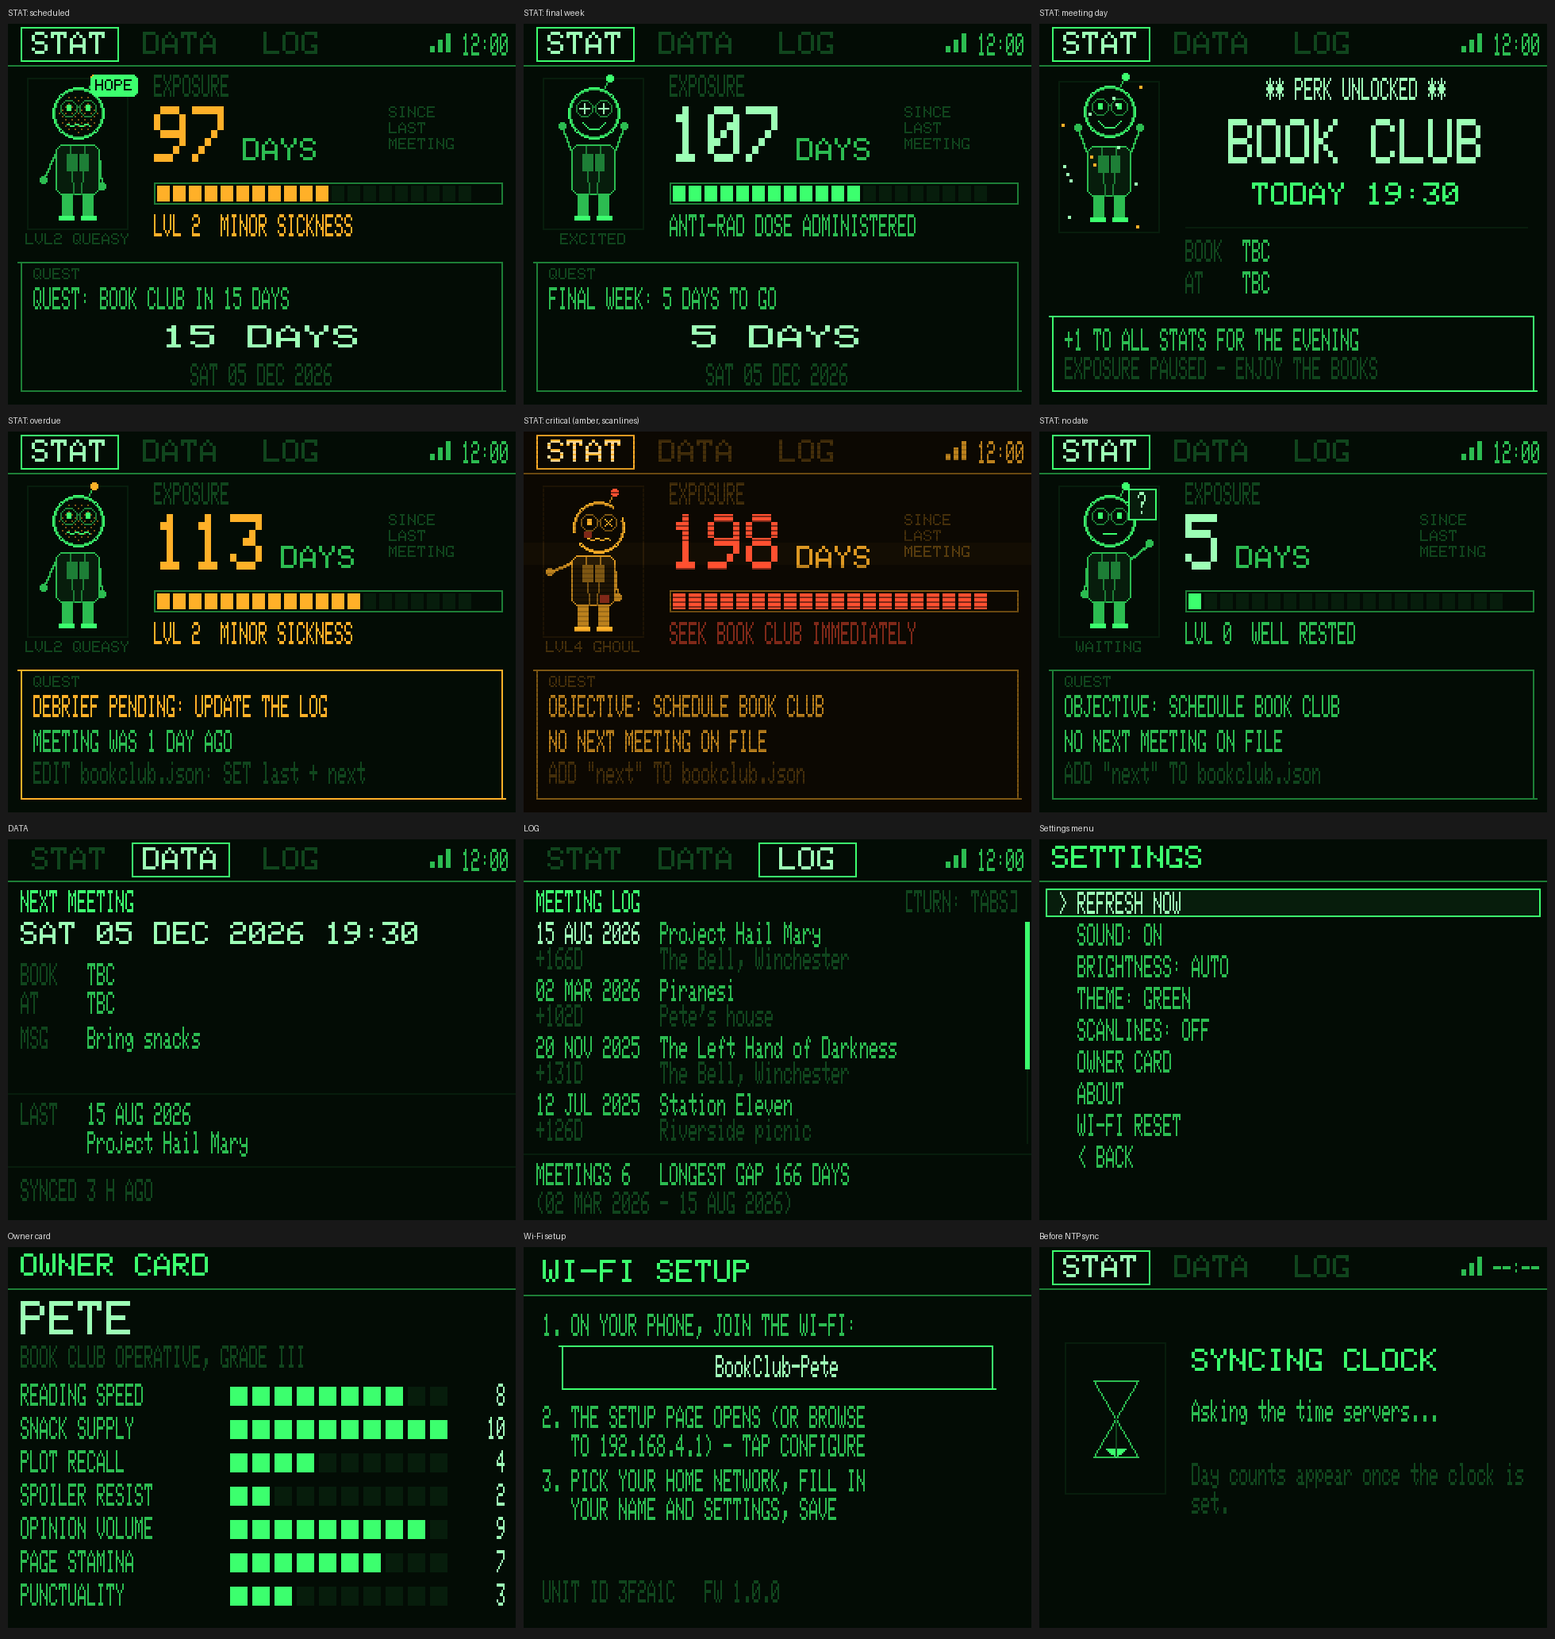
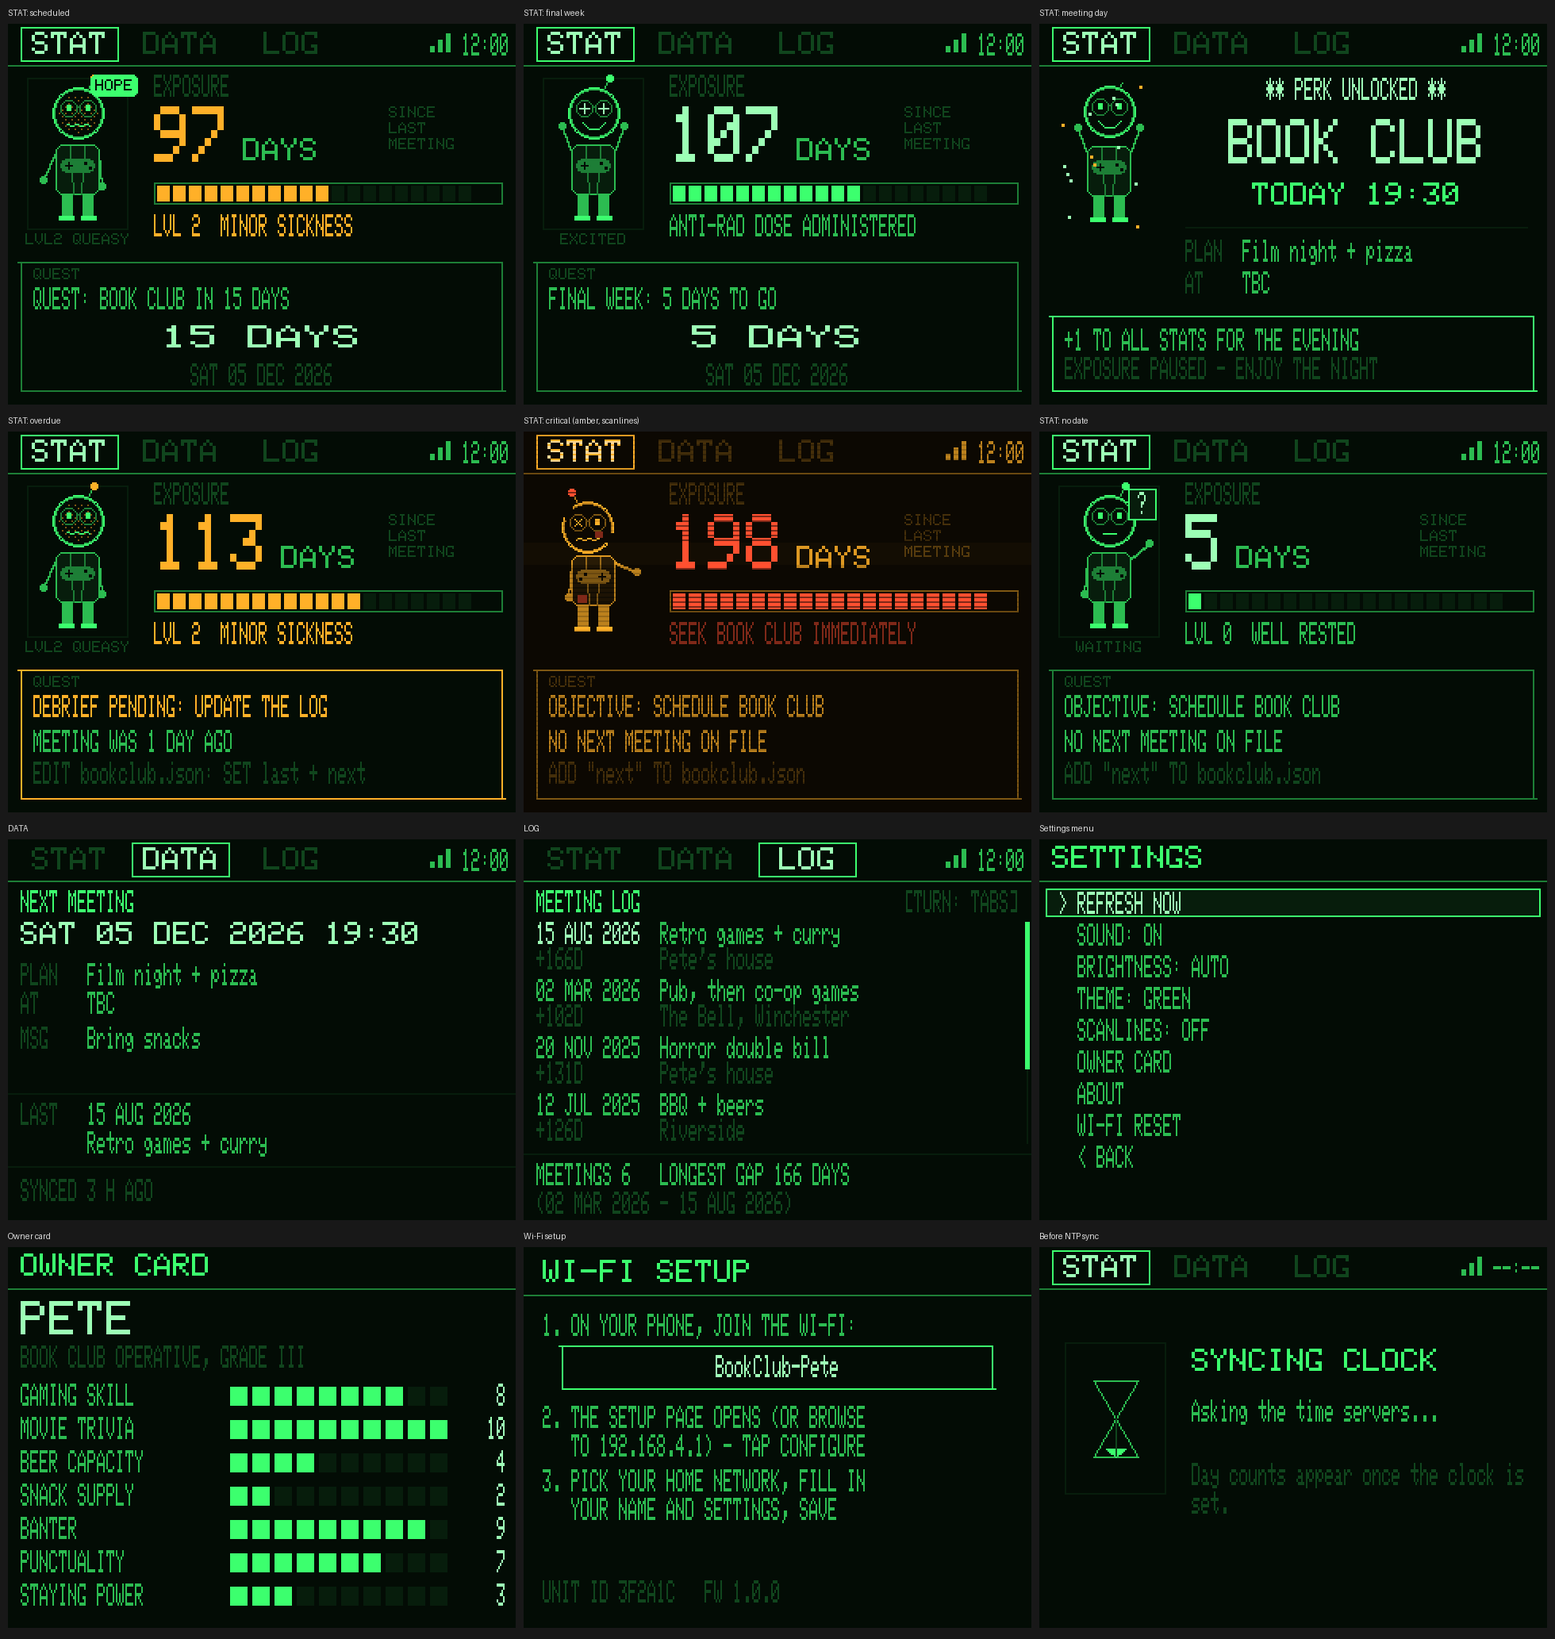
Drop the reading theme: meetings have a plan, not a book
The club plays games, watches films, eats and drinks rather than reading.
Meetings now carry a 'plan' field (what's on that night) shown on the DATA
and LOG tabs; files that still say 'book' keep working. Owner-card stats,
sample data and on-screen wording are re-themed, and the placeholder
mascot holds a game controller instead of a book.

Claude-Session: https://claude.ai/code/session_01Te388yYDhf15Es8J4BHFVV

diff --git a/firmware/test/test_state/test_state.cpp b/firmware/test/test_state/test_state.cpp
@@ -33,14 +33,14 @@ static BookClubData file(const char* last, const char* next, const char* time = 
   char nextPart[160];
   if (next) {
     if (time)
-      snprintf(nextPart, sizeof nextPart, "{\"date\":\"%s\",\"time\":\"%s\",\"book\":\"TBC\"}", next, time);
+      snprintf(nextPart, sizeof nextPart, "{\"date\":\"%s\",\"time\":\"%s\",\"plan\":\"TBC\"}", next, time);
     else
       snprintf(nextPart, sizeof nextPart, "{\"date\":\"%s\"}", next);
   } else {
     strcpy(nextPart, "null");
   }
   snprintf(json, sizeof json,
-           "{\"version\":1,\"last\":{\"date\":\"%s\",\"book\":\"Project Hail Mary\"},"
+           "{\"version\":1,\"last\":{\"date\":\"%s\",\"plan\":\"Retro games + curry\"},"
            "\"next\":%s}",
            last, nextPart);
   BookClubData d;
@@ -261,11 +261,11 @@ void test_labels() {
 
 static const char* kSample = R"({
   "version": 1,
-  "last": { "date": "2026-08-15", "book": "Project Hail Mary", "location": "The Bell, Winchester" },
-  "next": { "date": "2026-12-05", "time": "19:30", "book": "TBC", "location": "TBC" },
+  "last": { "date": "2026-08-15", "plan": "Retro games + curry", "location": "The Bell, Winchester" },
+  "next": { "date": "2026-12-05", "time": "19:30", "plan": "TBC", "location": "TBC" },
   "history": [
-    { "date": "2026-08-15", "book": "Project Hail Mary", "location": "The Bell, Winchester" },
-    { "date": "2026-03-02", "book": "Piranesi", "location": "Pete's house" }
+    { "date": "2026-08-15", "plan": "Retro games + curry", "location": "The Bell, Winchester" },
+    { "date": "2026-03-02", "plan": "Pub, then co-op games", "location": "Pete's house" }
   ],
   "message": "Bring snacks",
   "someFutureField": { "ignored": true }
@@ -276,13 +276,13 @@ void test_parse_sample() {
   TEST_ASSERT_EQUAL((int)ParseError::None, (int)parseBookClub(kSample, strlen(kSample), d));
   TEST_ASSERT_EQUAL(1, d.version);
   TEST_ASSERT_TRUE(d.last.date == D("2026-08-15"));
-  TEST_ASSERT_EQUAL_STRING("Project Hail Mary", d.last.book);
+  TEST_ASSERT_EQUAL_STRING("Retro games + curry", d.last.plan);
   TEST_ASSERT_TRUE(d.hasNext);
   TEST_ASSERT_TRUE(d.next.hasTime);
   TEST_ASSERT_EQUAL_INT16(19 * 60 + 30, d.next.minute);
   TEST_ASSERT_EQUAL_STRING("Bring snacks", d.message);
   TEST_ASSERT_EQUAL(2, d.historyCount);
-  TEST_ASSERT_EQUAL_STRING("Piranesi", d.history[1].book);
+  TEST_ASSERT_EQUAL_STRING("Pub, then co-op games", d.history[1].plan);
   TEST_ASSERT_FALSE(d.firmware.present);
 }
 
@@ -301,7 +301,7 @@ void test_parse_rejects_bad_files_and_keeps_old() {
   for (const char* b : bad) {
     TEST_ASSERT_NOT_EQUAL_MESSAGE((int)ParseError::None, (int)parseBookClub(b, strlen(b), d), b);
   }
-  TEST_ASSERT_EQUAL_STRING("Project Hail Mary", d.last.book);  // untouched
+  TEST_ASSERT_EQUAL_STRING("Retro games + curry", d.last.plan);  // untouched
   TEST_ASSERT_TRUE(d.hasNext);
 }
 
@@ -311,7 +311,7 @@ void test_parse_next_variants() {
   TEST_ASSERT_EQUAL((int)ParseError::None, (int)parseBookClub(omitted, strlen(omitted), d));
   TEST_ASSERT_FALSE(d.hasNext);
   TEST_ASSERT_EQUAL(1, d.historyCount);  // `last` is always in the log
-  const char* badNext = "{\"last\":{\"date\":\"2026-08-15\"},\"next\":{\"date\":\"soon\",\"book\":\"X\"}}";
+  const char* badNext = "{\"last\":{\"date\":\"2026-08-15\"},\"next\":{\"date\":\"soon\",\"plan\":\"X\"}}";
   TEST_ASSERT_EQUAL((int)ParseError::None, (int)parseBookClub(badNext, strlen(badNext), d));
   TEST_ASSERT_FALSE(d.hasNext);
   const char* badTime = "{\"last\":{\"date\":\"2026-08-15\"},\"next\":{\"date\":\"2026-12-05\",\"time\":\"7pm\"}}";
@@ -322,40 +322,49 @@ void test_parse_next_variants() {
 
 void test_parse_last_wins_over_history() {
   // History is out of order and its first entry disagrees with `last`.
-  const char* j = R"({"last":{"date":"2026-08-15","book":"Right"},
-    "history":[{"date":"2026-03-02","book":"B"},{"date":"2026-08-15","book":"Wrong"},
-               {"date":"2025-11-20","book":"A"},{"date":"2026-09-01","book":"Future"}]})";
+  const char* j = R"({"last":{"date":"2026-08-15","plan":"Right"},
+    "history":[{"date":"2026-03-02","plan":"B"},{"date":"2026-08-15","plan":"Wrong"},
+               {"date":"2025-11-20","plan":"A"},{"date":"2026-09-01","plan":"Future"}]})";
   BookClubData d;
   TEST_ASSERT_EQUAL((int)ParseError::None, (int)parseBookClub(j, strlen(j), d));
   TEST_ASSERT_EQUAL(3, d.historyCount);
-  TEST_ASSERT_EQUAL_STRING("Right", d.history[0].book);
-  TEST_ASSERT_EQUAL_STRING("B", d.history[1].book);
-  TEST_ASSERT_EQUAL_STRING("A", d.history[2].book);
+  TEST_ASSERT_EQUAL_STRING("Right", d.history[0].plan);
+  TEST_ASSERT_EQUAL_STRING("B", d.history[1].plan);
+  TEST_ASSERT_EQUAL_STRING("A", d.history[2].plan);
   LogStats st = computeLogStats(d);
   TEST_ASSERT_EQUAL(3, st.totalMeetings);
   TEST_ASSERT_EQUAL_INT32(166, st.longestGapDays);  // 2026-03-02 -> 2026-08-15
   TEST_ASSERT_TRUE(st.gapFrom == D("2026-03-02"));
 }
 
-void test_parse_truncates_long_text() {
-  char j[600];
-  char longBook[300];
-  memset(longBook, 'x', sizeof longBook - 1);
-  longBook[sizeof longBook - 1] = 0;
-  snprintf(j, sizeof j, "{\"last\":{\"date\":\"2026-08-15\",\"book\":\"%s\"}}", longBook);
+void test_parse_accepts_legacy_book_field() {
+  const char* j = R"({"last":{"date":"2026-08-15","book":"Old style"},
+    "next":{"date":"2026-12-05","plan":"New style","book":"ignored"}})";
   BookClubData d;
   TEST_ASSERT_EQUAL((int)ParseError::None, (int)parseBookClub(j, strlen(j), d));
-  TEST_ASSERT_EQUAL(kTextLen - 1, (int)strlen(d.last.book));
+  TEST_ASSERT_EQUAL_STRING("Old style", d.last.plan);
+  TEST_ASSERT_EQUAL_STRING("New style", d.next.plan);
+}
+
+void test_parse_truncates_long_text() {
+  char j[600];
+  char longPlan[300];
+  memset(longPlan, 'x', sizeof longPlan - 1);
+  longPlan[sizeof longPlan - 1] = 0;
+  snprintf(j, sizeof j, "{\"last\":{\"date\":\"2026-08-15\",\"plan\":\"%s\"}}", longPlan);
+  BookClubData d;
+  TEST_ASSERT_EQUAL((int)ParseError::None, (int)parseBookClub(j, strlen(j), d));
+  TEST_ASSERT_EQUAL(kTextLen - 1, (int)strlen(d.last.plan));
 }
 
 void test_parse_utf8_truncation_on_boundary() {
   // 30 x "é" (2 bytes each) = 60 bytes; must cut to 46 bytes, not 47.
-  char j[200] = "{\"last\":{\"date\":\"2026-08-15\",\"book\":\"";
+  char j[200] = "{\"last\":{\"date\":\"2026-08-15\",\"plan\":\"";
   for (int i = 0; i < 30; ++i) strcat(j, "\xC3\xA9");
   strcat(j, "\"}}");
   BookClubData d;
   TEST_ASSERT_EQUAL((int)ParseError::None, (int)parseBookClub(j, strlen(j), d));
-  TEST_ASSERT_EQUAL(46, (int)strlen(d.last.book));
+  TEST_ASSERT_EQUAL(46, (int)strlen(d.last.plan));
 }
 
 void test_parse_firmware_block() {
@@ -454,6 +463,7 @@ int main() {
   RUN_TEST(test_parse_rejects_bad_files_and_keeps_old);
   RUN_TEST(test_parse_next_variants);
   RUN_TEST(test_parse_last_wins_over_history);
+  RUN_TEST(test_parse_accepts_legacy_book_field);
   RUN_TEST(test_parse_truncates_long_text);
   RUN_TEST(test_parse_utf8_truncation_on_boundary);
   RUN_TEST(test_parse_firmware_block);

diff --git a/firmware/src/mascot.cpp b/firmware/src/mascot.cpp
@@ -1,5 +1,6 @@
 #include "mascot.h"
 
+#include "art_data.h"
 #include "display.h"
 
 using display::canvas;
@@ -8,9 +9,9 @@ namespace mascot {
 
 using bc::Pose;
 
-// A deliberately simple, original figure: a round-headed reader with big
-// round glasses, a dosimeter antenna and a cardigan, clutching a book.
-// Placeholder only.
+// A deliberately simple, original figure: a round-headed character with big
+// round glasses, a dosimeter antenna and a cardigan, clutching a game
+// controller. Placeholder only.
 namespace {
 
 struct Look {
@@ -35,7 +36,7 @@ void arm(int sx, int sy, int dir, int pose) {
 
 }  // namespace
 
-void draw(int x, int y, Pose pose, uint32_t t, bool label) {
+void drawPlaceholder(int x, int y, Pose pose, uint32_t t, bool label) {
   auto& c = canvas();
   Look k;
   const bool blinkNow = (t % 4200) < 140;
@@ -63,14 +64,17 @@ void draw(int x, int y, Pose pose, uint32_t t, bool label) {
     c.drawFastVLine(cx, cy, 24, display::kDim);
   } else {
     const int hx = x + 32 + k.headDx, hy = y + 22 + k.headDy;
-    // Body: an open cardigan over a jumper, with a book held to the chest.
+    // Body: an open cardigan over a jumper, a game controller held in front.
     const int bx = x + 18, by = y + 42 + k.headDy / 2;
     c.fillRoundRect(bx, by, 28, 32, 5, display::kFaint);
     c.drawRoundRect(bx, by, 28, 32, 5, display::kText);
     c.drawLine(bx + 9, by + 1, bx + 11, by + 31, display::kMid);  // cardigan edges
     c.drawLine(bx + 18, by + 1, bx + 16, by + 31, display::kMid);
-    c.fillRect(bx + 7, by + 6, 14, 11, display::kMid);  // the book
-    c.drawFastVLine(bx + 14, by + 6, 11, display::kBg);
+    c.fillRoundRect(bx + 3, by + 9, 22, 9, 4, display::kMid);  // the controller
+    c.drawFastHLine(bx + 6, by + 13, 5, display::kBg);          // d-pad
+    c.drawFastVLine(bx + 8, by + 11, 5, display::kBg);
+    c.fillRect(bx + 18, by + 11, 2, 2, display::kBg);           // buttons
+    c.fillRect(bx + 21, by + 14, 2, 2, display::kBg);
     // Legs.
     c.fillRect(bx + 4, by + 32, 7, 14, display::kText);
     c.fillRect(bx + 17, by + 32, 7, 14, display::kText);
@@ -156,6 +160,34 @@ void draw(int x, int y, Pose pose, uint32_t t, bool label) {
   }
 
   if (label) display::textCentered(x + kW / 2, y + kH + 2, bc::poseName(pose), display::kDim, 1, 1);
+}
+
+bool hasArt(Pose pose) {
+  const int i = (int)pose;
+  return i >= 0 && i < (int)(sizeof art::kAnims / sizeof art::kAnims[0]) && art::kAnims[i].count > 0;
+}
+
+void draw(int x, int y, Pose pose, uint32_t t, bool label) {
+  if (!hasArt(pose)) {
+    drawPlaceholder(x, y, pose, t, label);
+    return;
+  }
+  // Pick the frame for this moment of the loop.
+  const art::Anim& a = art::kAnims[(int)pose];
+  uint32_t total = 0;
+  for (int i = 0; i < a.count; ++i) total += a.frames[i].ms ? a.frames[i].ms : 1;
+  uint32_t at = t % total;
+  int f = 0;
+  while (f < a.count - 1 && at >= a.frames[f].ms) at -= a.frames[f++].ms;
+  const uint8_t* px = a.frames[f].px;
+  auto& c = canvas();
+  for (int yy = 0; yy < art::kH; ++yy) {
+    for (int xx = 0; xx < art::kW; xx += 2) {
+      const uint8_t b = *px++;
+      if (b >> 4) c.drawPixel(x + xx, y + yy, b >> 4);
+      if (b & 15) c.drawPixel(x + xx + 1, y + yy, b & 15);
+    }
+  }
 }
 
 }  // namespace mascot

diff --git a/firmware/src/ui.cpp b/firmware/src/ui.cpp
@@ -183,14 +183,14 @@ void drawCelebration(const Model& m, uint32_t t) {
   textCentered(200, 100, buf, kBright, 2, 2);
   if (m.data) {
     canvas().drawFastHLine(92, 128, 216, kFaint);
-    text(92, 136, "BOOK", kDim);
-    folded(128, 136, m.data->next.book, kText, 30);
+    text(92, 136, "PLAN", kDim);
+    folded(128, 136, m.data->next.plan[0] ? m.data->next.plan : "TBC", kText, 30);
     text(92, 156, "AT", kDim);
     folded(128, 156, m.data->next.location, kText, 30);
   }
   frame(8, 184, 304, 48, kBright);
   text(16, 192, "+1 TO ALL STATS FOR THE EVENING", kText);
-  text(16, 210, "EXPOSURE PAUSED - ENJOY THE BOOKS", kDim);
+  text(16, 210, "EXPOSURE PAUSED - ENJOY THE NIGHT", kDim);
 }
 
 void drawStat(const Model& m, uint32_t t) {
@@ -275,8 +275,8 @@ void drawData(const Model& m) {
       bc::formatTime(d.next.minute, tm, sizeof tm);
       text(8 + textWidth(buf, 2) + 12, 52, tm, kHot, 2, 2);
     }
-    text(8, 78, "BOOK ", kDim);
-    folded(50, 78, d.next.book[0] ? d.next.book : "TBC", kText, 44);
+    text(8, 78, "PLAN ", kDim);
+    folded(50, 78, d.next.plan[0] ? d.next.plan : "TBC", kText, 44);
     text(8, 96, "AT   ", kDim);
     folded(50, 96, d.next.location[0] ? d.next.location : "TBC", kText, 44);
   } else {
@@ -292,7 +292,7 @@ void drawData(const Model& m) {
   text(8, 166, "LAST ", kDim);
   bc::formatDateShort(d.last.date, date, sizeof date);
   text(50, 166, date, kText);
-  folded(50, 184, d.last.book[0] ? d.last.book : "-", kText, 44);
+  folded(50, 184, d.last.plan[0] ? d.last.plan : "-", kText, 44);
 
   c.drawFastHLine(0, 206, cfg::kScreenW, kFaint);
   char age[20];
@@ -325,7 +325,7 @@ void drawLog(const Model& m) {
     char date[16];
     bc::formatDateShort(e.date, date, sizeof date);
     text(8, y, date, i == 0 ? kHot : kText);
-    folded(86, y, e.book[0] ? e.book : "-", kText, 36);
+    folded(86, y, e.plan[0] ? e.plan : "-", kText, 36);
     folded(86, y + 16, e.location, kDim, 36);
     if (i + 1 < d.historyCount) {
       char gap[24];

diff --git a/firmware/src/scenarios.cpp b/firmware/src/scenarios.cpp
@@ -7,15 +7,15 @@ namespace scenarios {
 
 const char* const kSampleJson = R"JSON({
   "version": 1,
-  "last": { "date": "2026-08-15", "book": "Project Hail Mary", "location": "The Bell, Winchester" },
-  "next": { "date": "2026-12-05", "time": "19:30", "book": "TBC", "location": "TBC" },
+  "last": { "date": "2026-08-15", "plan": "Retro games + curry", "location": "Pete's house" },
+  "next": { "date": "2026-12-05", "time": "19:30", "plan": "Film night + pizza", "location": "TBC" },
   "history": [
-    { "date": "2026-08-15", "book": "Project Hail Mary", "location": "The Bell, Winchester" },
-    { "date": "2026-03-02", "book": "Piranesi", "location": "Pete's house" },
-    { "date": "2025-11-20", "book": "The Left Hand of Darkness", "location": "The Bell, Winchester" },
-    { "date": "2025-07-12", "book": "Station Eleven", "location": "Riverside picnic" },
-    { "date": "2025-03-08", "book": "Klara and the Sun", "location": "Pete's house" },
-    { "date": "2024-10-19", "book": "The Martian", "location": "The Bell, Winchester" }
+    { "date": "2026-08-15", "plan": "Retro games + curry", "location": "Pete's house" },
+    { "date": "2026-03-02", "plan": "Pub, then co-op games", "location": "The Bell, Winchester" },
+    { "date": "2025-11-20", "plan": "Horror double bill", "location": "Pete's house" },
+    { "date": "2025-07-12", "plan": "BBQ + beers", "location": "Riverside" },
+    { "date": "2025-03-08", "plan": "Racing game tournament", "location": "Pete's house" },
+    { "date": "2024-10-19", "plan": "Pub quiz", "location": "The Bell, Winchester" }
   ],
   "message": "Bring snacks"
 })JSON";

diff --git a/firmware/sim/stubs.cpp b/firmware/sim/stubs.cpp
@@ -13,8 +13,8 @@ namespace settings {
 const char* chipId() { return "3F2A1C"; }
 const char* statName(int i) {
   static const char* const kNames[kStatCount] = {
-      "READING SPEED", "SNACK SUPPLY",   "PLOT RECALL", "SPOILER RESIST",
-      "OPINION VOLUME", "PAGE STAMINA", "PUNCTUALITY",
+      "GAMING SKILL",  "MOVIE TRIVIA", "BEER CAPACITY", "SNACK SUPPLY",
+      "BANTER",        "PUNCTUALITY",  "STAYING POWER",
   };
   return (i >= 0 && i < kStatCount) ? kNames[i] : "?";
 }

diff --git a/firmware/src/settings.cpp b/firmware/src/settings.cpp
@@ -122,8 +122,8 @@ void factoryReset() {
 
 const char* statName(int i) {
   static const char* const kNames[kStatCount] = {
-      "READING SPEED", "SNACK SUPPLY",   "PLOT RECALL", "SPOILER RESIST",
-      "OPINION VOLUME", "PAGE STAMINA", "PUNCTUALITY",
+      "GAMING SKILL",  "MOVIE TRIVIA", "BEER CAPACITY", "SNACK SUPPLY",
+      "BANTER",        "PUNCTUALITY",  "STAYING POWER",
   };
   return (i >= 0 && i < kStatCount) ? kNames[i] : "?";
 }

diff --git a/firmware/lib/bookclub_state/src/bc_parse.cpp b/firmware/lib/bookclub_state/src/bc_parse.cpp
@@ -49,7 +49,8 @@ static bool readMeeting(JsonVariantConst v, Meeting& m) {
     m.hasTime = true;
     m.minute = minute;
   }
-  copyText(v["book"], m.book, sizeof m.book);
+  // "plan" is what's on that night; "book" is accepted from older files.
+  copyText(v["plan"].is<const char*>() ? v["plan"] : v["book"], m.plan, sizeof m.plan);
   copyText(v["location"], m.location, sizeof m.location);
   return true;
 }

diff --git a/firmware/lib/bookclub_state/src/bc_data.h b/firmware/lib/bookclub_state/src/bc_data.h
@@ -23,7 +23,7 @@ struct Meeting {
   Date date;
   bool hasTime = false;
   int16_t minute = 0;  // minutes after local midnight, when hasTime
-  char book[kTextLen] = "";
+  char plan[kTextLen] = "";      // what's on: games, film, food...
   char location[kTextLen] = "";
 };
 

diff --git a/README.md b/README.md
@@ -9,7 +9,8 @@ the same file, [`bookclub.json`](bookclub.json), from this repo.
 ```
 bookclub.json   the shared dates file — edit this one
 firmware/       the PlatformIO project for the ESP32 "Cheap Yellow Display"
-tools/          check_bookclub.py, the same checks the units apply
+art/            mascot art: PNGs you draw, baked into the firmware (art/README.md)
+tools/          check_bookclub.py (the same checks the units apply), art tools
 docs/           the original handover/spec
 case/           (to come) STL files for the printed case
 ```
@@ -24,11 +25,11 @@ minutes after an edit.
 ```json
 {
   "version": 1,
-  "last": { "date": "2026-08-15", "book": "Project Hail Mary", "location": "The Bell, Winchester" },
-  "next": { "date": "2026-12-05", "time": "19:30", "book": "TBC", "location": "TBC" },
+  "last": { "date": "2026-08-15", "plan": "Retro games + curry", "location": "Pete's house" },
+  "next": { "date": "2026-12-05", "time": "19:30", "plan": "Film night + pizza", "location": "TBC" },
   "history": [
-    { "date": "2026-08-15", "book": "Project Hail Mary", "location": "The Bell, Winchester" },
-    { "date": "2026-03-02", "book": "Piranesi", "location": "Pete's house" }
+    { "date": "2026-08-15", "plan": "Retro games + curry", "location": "Pete's house" },
+    { "date": "2026-03-02", "plan": "Pub, then co-op games", "location": "The Bell, Winchester" }
   ],
   "message": "Bring snacks"
 }
@@ -39,7 +40,9 @@ minutes after an edit.
   top of `history`, and set `next` to the new date, or to `null` if there
   isn't one yet. Until `last` changes, the exposure counter keeps counting
   and the unit shows **DEBRIEF PENDING**.
-- `next`, `time`, `book`, `location` and `message` are optional.
+- `plan` is what's on (games, a film, food, the pub...) and shows on the
+  DATA and LOG tabs. `next`, `time`, `plan`, `location` and `message` are
+  all optional. Older files that say `book` instead of `plan` still work.
 - If an edit breaks the file, the **Check bookclub.json** action shows a red
   cross on the commit, and the units ignore the broken version and keep
   showing the last good one. Fix it and they pick it up on the next sync.
